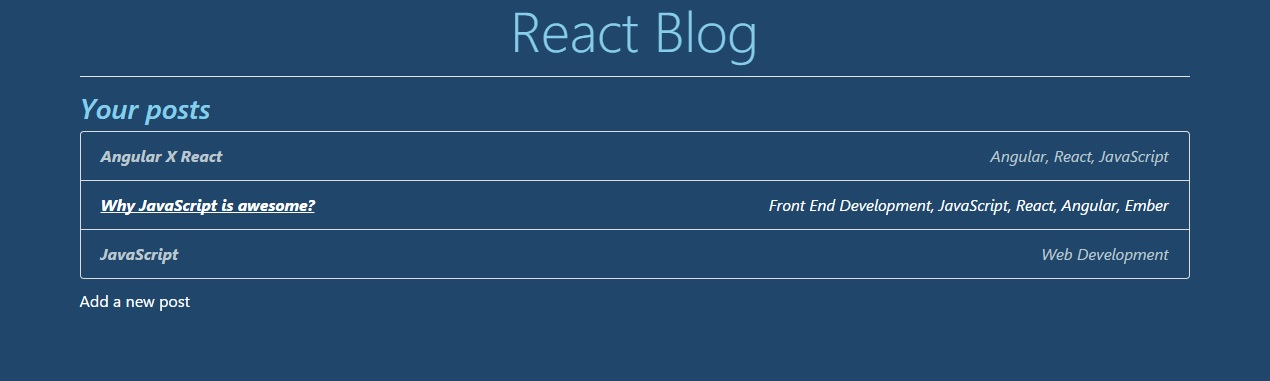
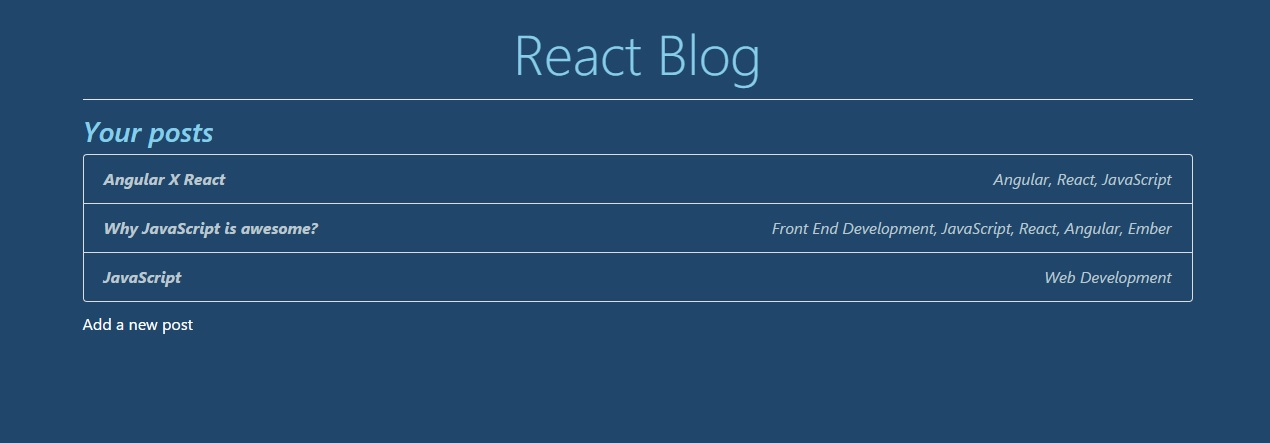
Update the README and change image

diff --git a/src/components/PostsNew.js b/src/components/PostsNew.js
@@ -45,7 +45,7 @@ class PostsNew extends Component {
         </div>
         <button type="submit" className="btn btn-primary">Save</button>
         <Link to="/" className="btn btn-danger margin-left-5px">Cancel</Link>
-        </form>
+      </form>
     );
   }
 }

diff --git a/README.md b/README.md
@@ -1,2 +1,27 @@
-# react-blog
-A simple Blog application using React + Redux.
+# React Blog
+### A simple Blog application using React + Redux.
+
+![View the post list](https://raw.githubusercontent.com/caiquecaleiro/react-blog/dev/assets/img/post-list-github-preview.jpg)
+
+### The user can see a list with all his posts. He's also able to create new posts or delete the existing ones.
+
+![Create a new post](https://raw.githubusercontent.com/caiquecaleiro/react-blog/dev/assets/img/create-post-github-preview.jpg)
+
+### Whenever the user selects a post, he will be redirected to view it in detail.
+
+![Post detail](https://raw.githubusercontent.com/caiquecaleiro/react-blog/dev/assets/img/post-show-github-preview.jpg)
+## Installation and usage
+
+Install the npm:
+```bash
+$ npm install
+```
+
+Start the application:
+```bash
+$ npm start
+```
+
+## Contributors  
+
+**@author:** 'Caique Caleiro *< [caiquecaleiro@gmail.com](mailto:caiquecaleiro@gmail.com) >*' 
